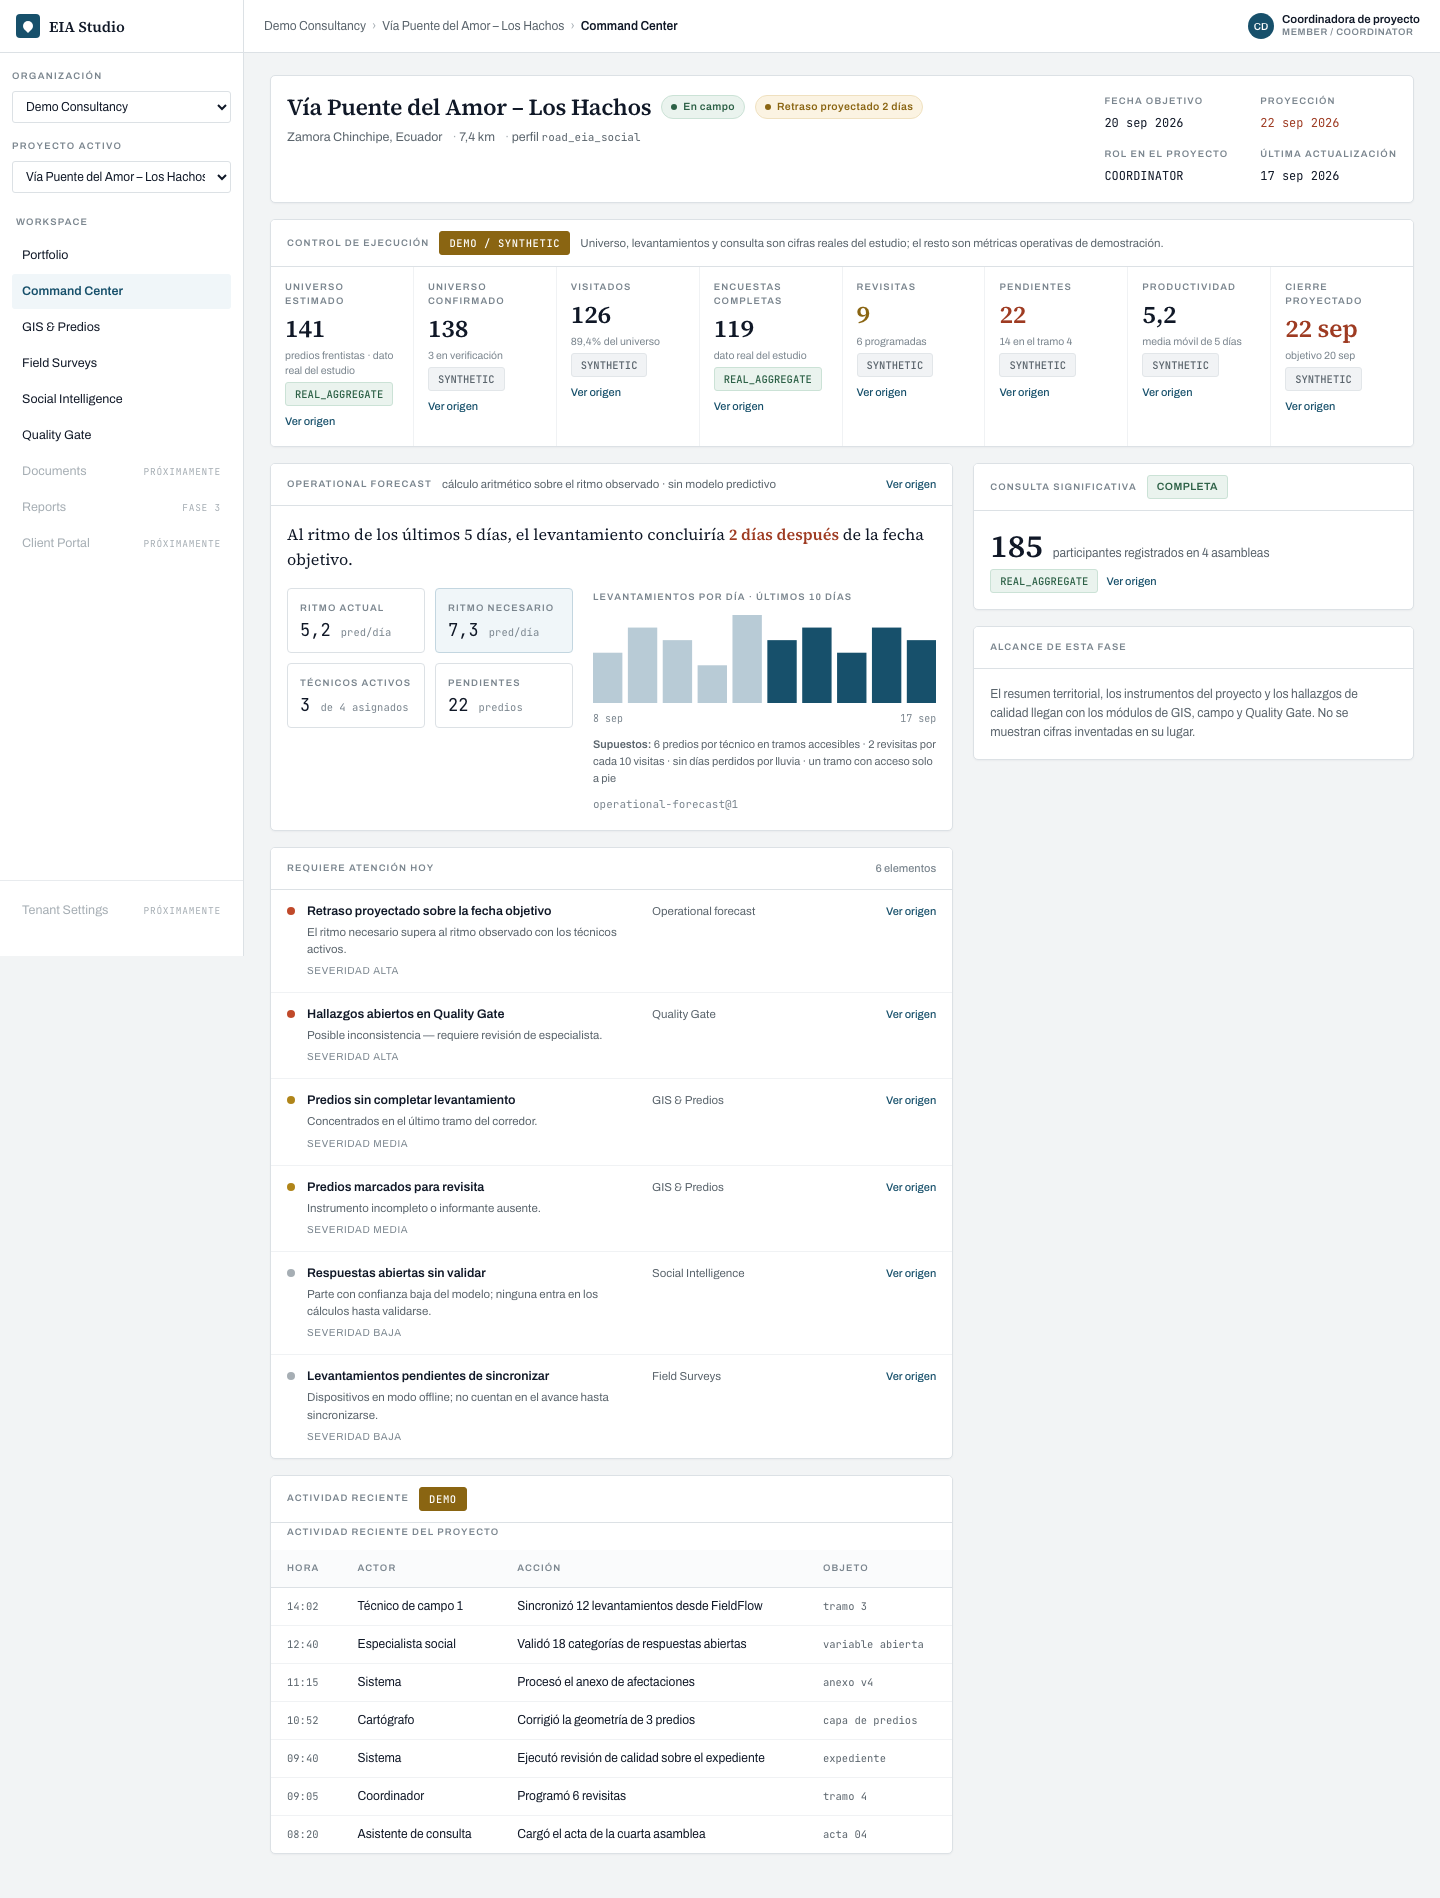
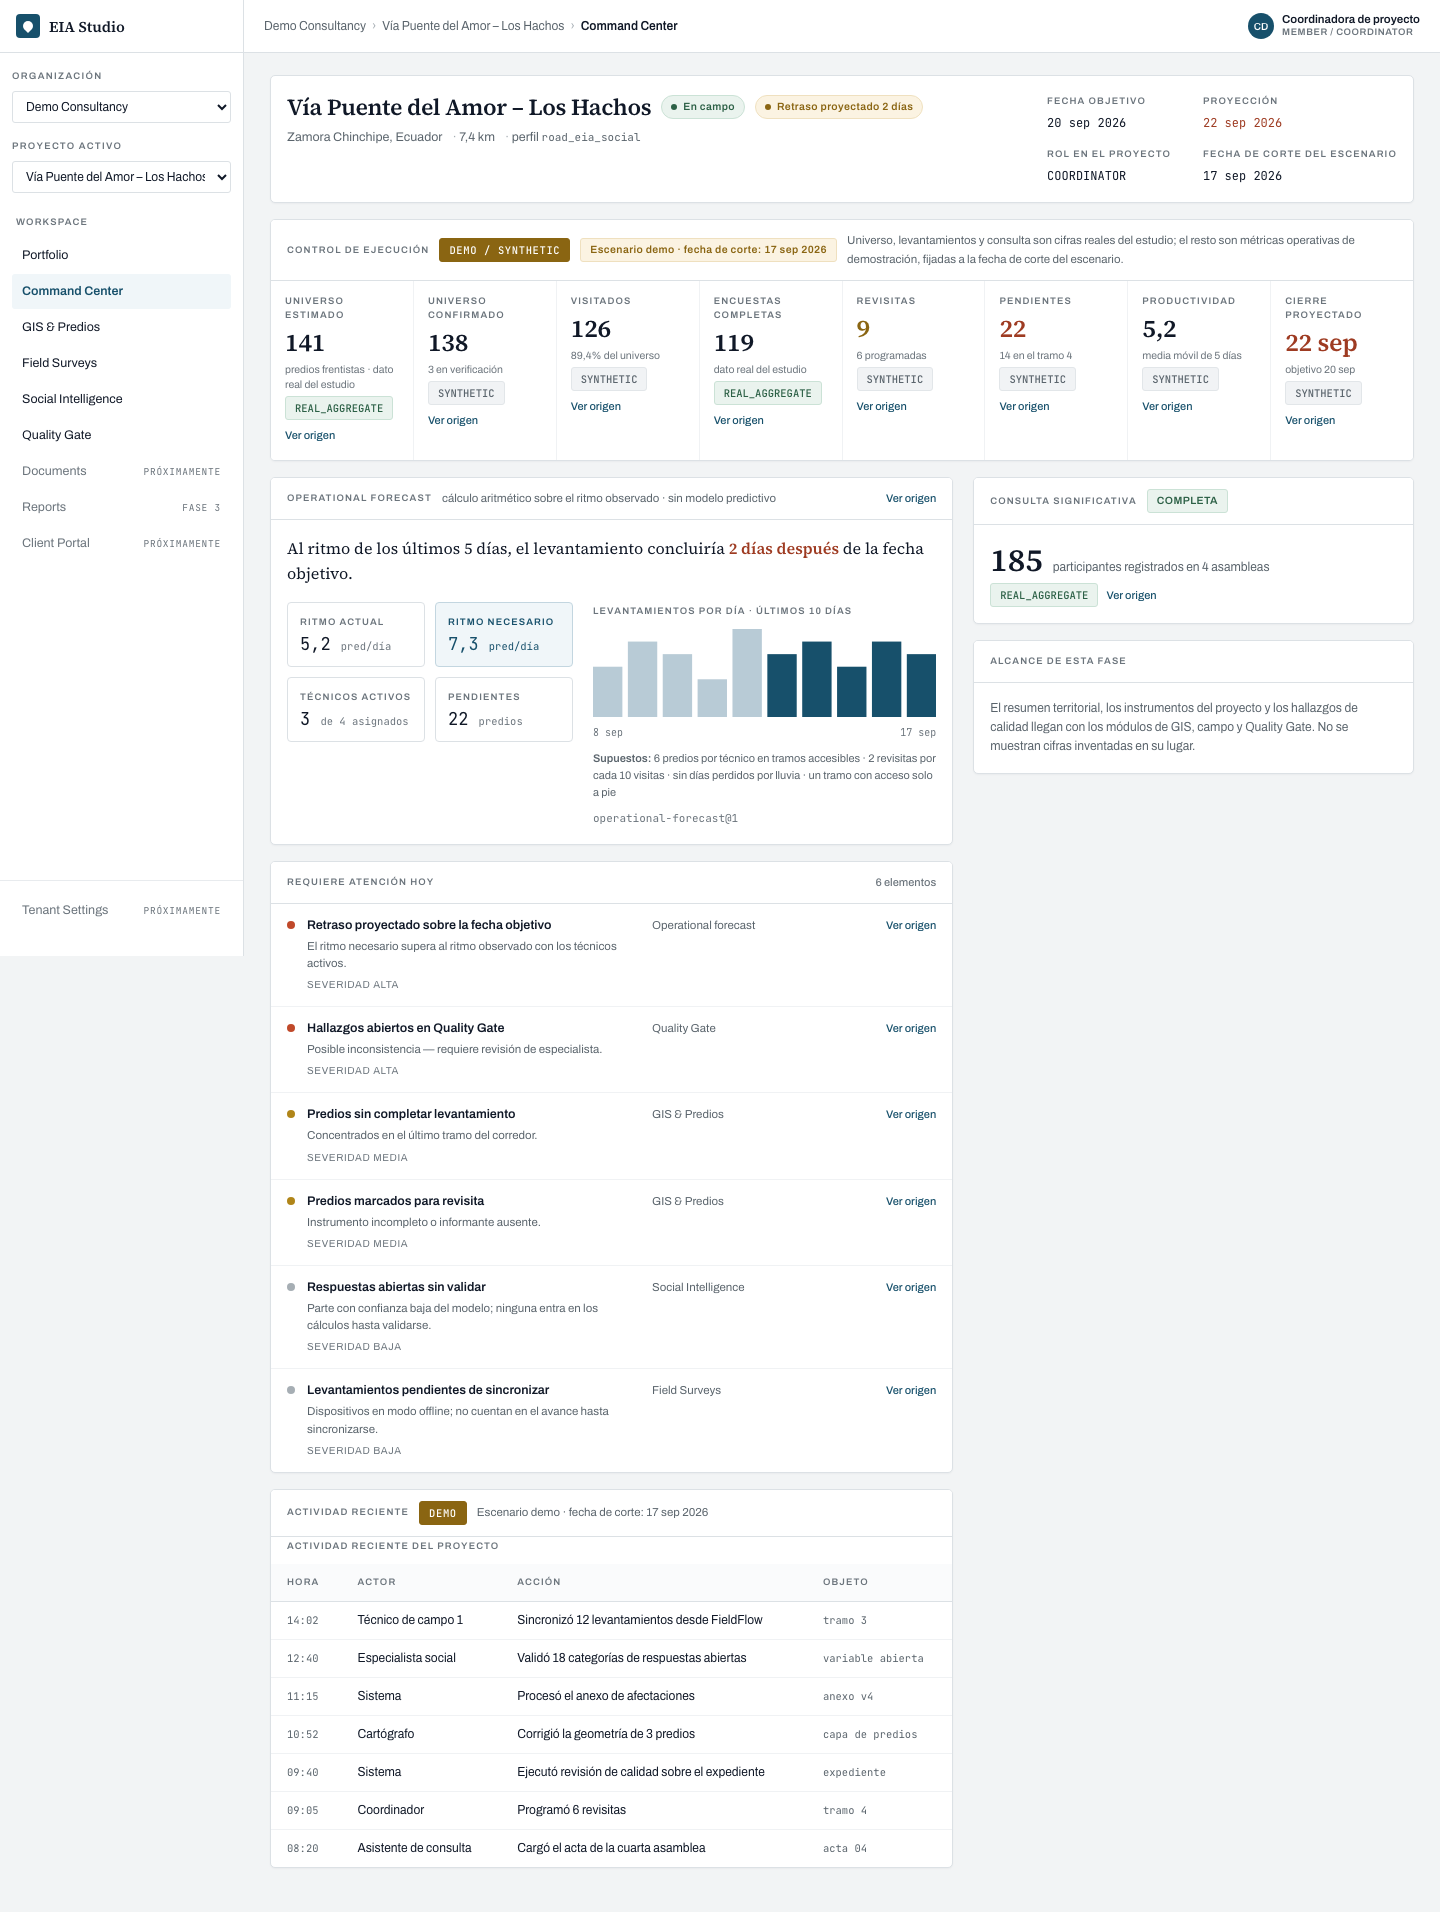
test(testing): add an axe smoke suite and fix the contrast it found
Four representative states — sign in, Portfolio, Command Center, and the Command Center with the
provenance drawer open — checked against the WCAG 2.1 A/AA rule sets, failing on serious and
critical violations. It runs in the existing e2e job.

It earned its place on the first run. The approved palette's "texto tenue" (#7A858E) is 3,77:1 on
white, below AA for the 9,5 px uppercase labels the design uses it for, and those labels are
everywhere: panel headers, KPI cells, table headers, the rail sections. The token is now #6B747C,
the nearest shade of the same neutral that passes on both surfaces it sits on (4,76:1 on white,
4,59:1 on the subtle surface behind table headers), so the ink → secondary → muted hierarchy
survives. Announced rail items read in it rather than in the decorative disabled grey, and the
highlighted forecast cell reads in the technical blue, which is what "destacada en azul" meant
anyway.

The design bundle still specifies the failing value, so the divergence is recorded rather than
hidden: TD-025 and DESIGN_BUNDLE_KNOWN_ISSUES.

What this does not claim: axe covers a minority of WCAG criteria. A green run is a regression net,
not evidence of conformance, and the manual keyboard and focus assertions stay exactly where they
were. The assistive-technology pass is what remains of TD-022.

Tenancy-impact: none
Schema-impact: none

diff --git a/e2e/accessibility.spec.ts b/e2e/accessibility.spec.ts
@@ -1,0 +1,55 @@
+import AxeBuilder from "@axe-core/playwright";
+import type { Page } from "@playwright/test";
+
+import { expect, PROJECT, TENANT, test } from "./fixtures";
+
+/**
+ * Accessibility smoke suite (IG1-005). Four representative states, checked with axe against the
+ * WCAG 2.1 A/AA rule sets, failing on `serious` and `critical` violations.
+ *
+ * What this does **not** claim: axe finds a minority of accessibility problems, so a green run is
+ * not evidence of WCAG conformance. It is a regression net for the mistakes a scanner does catch
+ * — missing labels and names, contrast, landmark and heading structure, ARIA misuse — and it sits
+ * alongside the manual keyboard and focus assertions in `journey.spec.ts`, which it replaces
+ * nothing of.
+ */
+const BLOCKING = new Set(["serious", "critical"]);
+
+async function scan(page: Page, context?: string) {
+  const builder = new AxeBuilder({ page }).withTags(["wcag2a", "wcag2aa", "wcag21a", "wcag21aa"]);
+  const results = await (context ? builder.include(context) : builder).analyze();
+  const blocking = results.violations.filter((v) => BLOCKING.has(v.impact ?? ""));
+  const report = blocking.map(
+    (v) =>
+      `${v.impact}: ${v.id} — ${v.help} (${v.nodes.length} node(s))\n    ${v.nodes[0]?.target.join(" ")}`,
+  );
+  expect(blocking, `axe violations:\n  ${report.join("\n  ")}`).toEqual([]);
+  return results;
+}
+
+test.describe("accessibility smoke", () => {
+  test("sign in", async ({ page }) => {
+    await page.context().clearCookies();
+    await page.goto("/sign-in");
+    await scan(page);
+  });
+
+  test("portfolio", async ({ page }) => {
+    await page.goto(`/t/${TENANT}`);
+    await page.waitForLoadState("networkidle");
+    await scan(page);
+  });
+
+  test("command center", async ({ page }) => {
+    await page.goto(`/t/${TENANT}/p/${PROJECT}`);
+    await page.waitForLoadState("networkidle");
+    await scan(page);
+  });
+
+  test("provenance drawer open", async ({ page }) => {
+    await page.goto(`/t/${TENANT}/p/${PROJECT}`);
+    await page.getByRole("link", { name: "Ver origen" }).first().click();
+    await expect(page.getByRole("dialog")).toBeVisible();
+    await scan(page);
+  });
+});

diff --git a/apps/web/components/command-center.module.css b/apps/web/components/command-center.module.css
@@ -93,6 +93,13 @@
   border-color: var(--eia-accent-border);
   background: var(--eia-accent-soft);
 }
+/* The highlighted cell sits on the soft blue, where the muted neutral drops below AA. Reading it
+   in the technical blue is both accessible and what the design intends by "destacada en azul". */
+.forecastCellActive .forecastLabel,
+.forecastCellActive .forecastValue,
+.forecastCellActive .forecastUnit {
+  color: var(--eia-accent);
+}
 .forecastLabel {
   font-size: var(--eia-size-label);
   font-weight: 600;

diff --git a/playwright.config.ts b/playwright.config.ts
@@ -33,7 +33,8 @@ export default defineConfig({
     { name: "setup", testMatch: /auth\.setup\.ts/, use: { ...devices["Desktop Chrome"] } },
     {
       name: "coordinator",
-      testMatch: /journey\.spec\.ts|authorization\.spec\.ts|screenshots\.spec\.ts/,
+      testMatch:
+        /journey\.spec\.ts|authorization\.spec\.ts|screenshots\.spec\.ts|accessibility\.spec\.ts/,
       dependencies: ["setup"],
       use: {
         ...devices["Desktop Chrome"],
